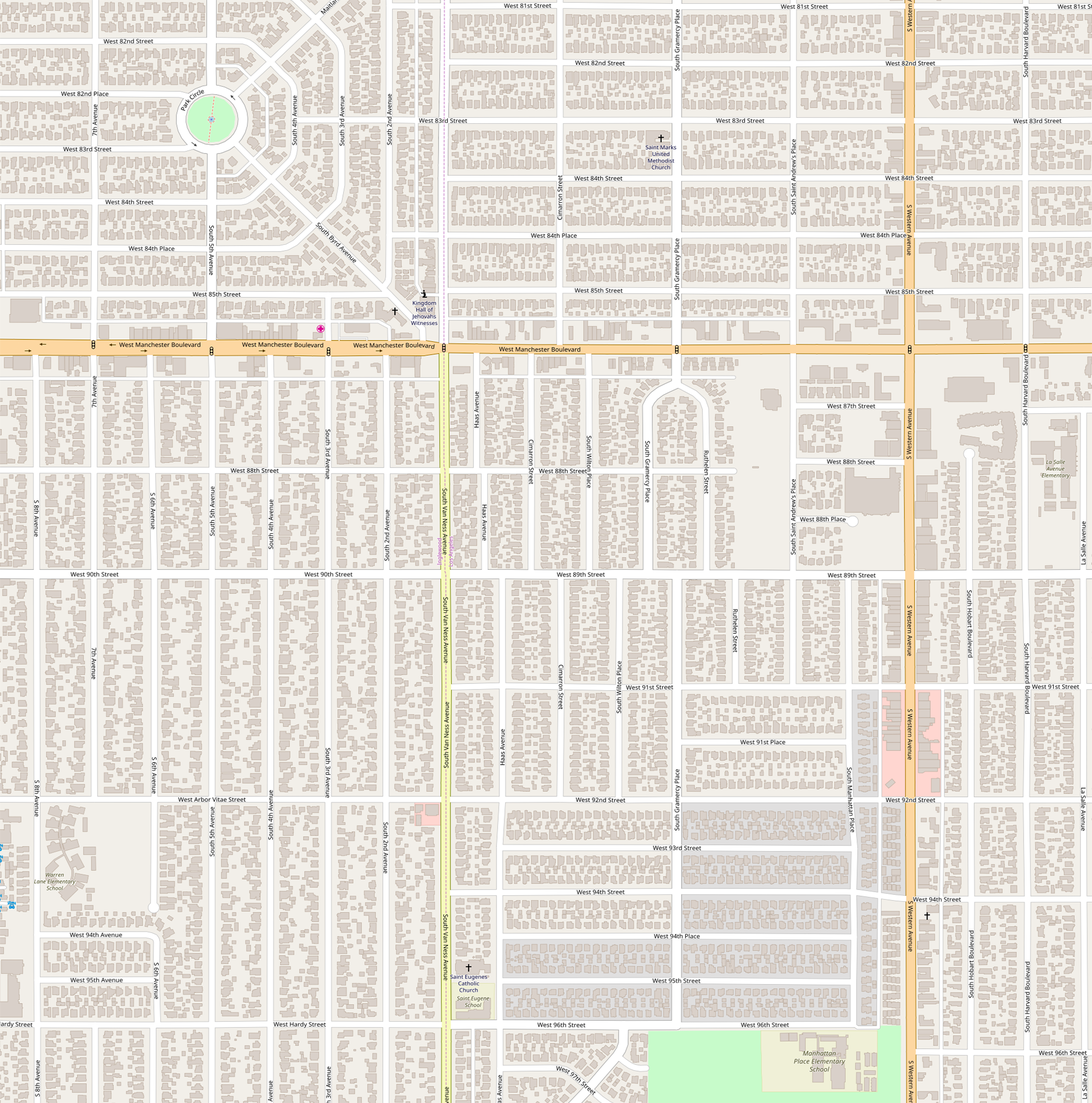
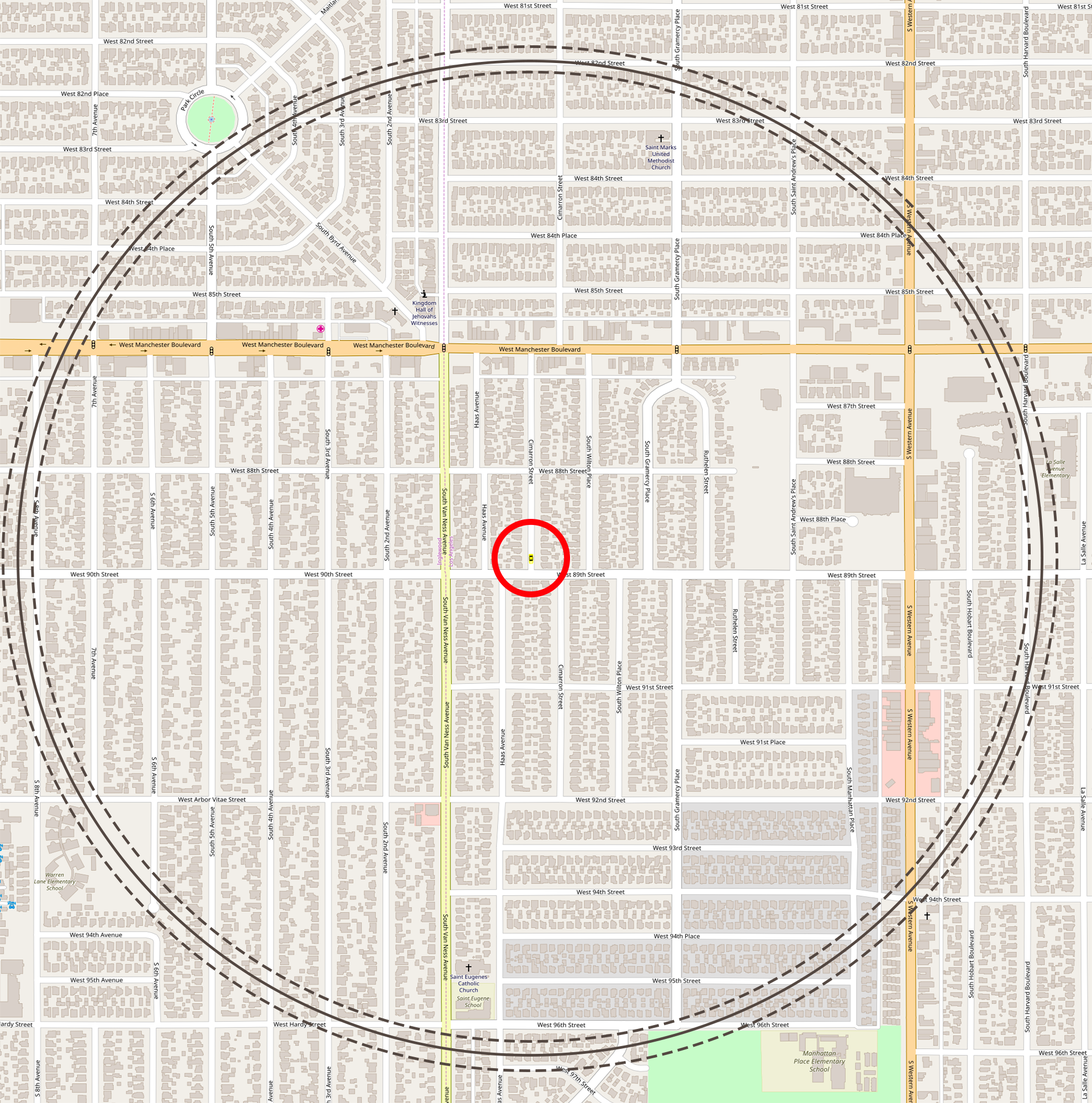
fix scenarios definition

diff --git a/doc/thesis/chapters/simulazioni.tex b/doc/thesis/chapters/simulazioni.tex
@@ -21,7 +21,11 @@ di un ambiente conosciuto;
 per questo motivo, la configurazione è la stessa presentata nel documento originale \cite{Barichello2017propagazione}, a cui sono stati aggiunti gli edifici.
 Lo scenario è una città fittizia con strade a griglia in stile Manhattan di lunghezza $4000$ metri e distanti l'una dall'altra $300$ metri.
 I veicoli sono disposti a $12$ metri di distanza per un totale di $8064$.
-Seguendo l'idea originale, è stata definita anche un circonferenza di raggio pari a $1000\pm12$ metri, utilizzata per definire alcune metriche che verranno descritte in seguito.
+Il veicolo dal quale ha inizio la fase di inoltro (generazione del primo messaggio di Alert) è posizionato
+al centro della griglia, in modo da avere una propagazione teoricamente uniforme;
+per facilità verrà chiamato veicolo \textit{zero}.
+Seguendo l'idea originale, è stata definita anche un circonferenza di raggio pari a $1000\pm12$ metri, utilizzata per definire alcune metriche che verranno descritte in seguito;
+la circonferenza ha centro in corrispondenza del veicolo zero.
 Il raggio trasmissivo effettivo assume due valori possibili: $300$ metri o $500$ metri;
 il tutto è riassunto in Tabella~\ref{tab:parametri-simulazioni-barichello}.
 
@@ -37,13 +41,15 @@ Così facendo, risultano $169$ edifici di $295$x$295$ metri (i muri sono distanz
 	\centering
 	\begin{tabular}{| m{.4\linewidth} | p{.2\linewidth} |}
 		\toprule
-		Parametro											&			Valore [metri]			\\
+		Parametro															&			Valore 							\\
 		\thickerline
-		Lunghezza delle strade				&			$4000$							\\
-		Distanza fra le strade				&			$300$								\\
-		Distanza fra i veicoloi 			&			$12$ 								\\
-		Raggio trasmissivo effettivo	&			$300$ - $500$				\\
-		Numero di simulazioni					&			$50$								\\
+		Lunghezza delle strade [metri] 				&			$4000$							\\
+		Distanza fra le strade [metri]				&			$300$								\\
+		Distanza fra i veicoloi [metri] 			&			$12$ 								\\
+		Raggio trasmissivo effettivo [metri]	&			$300$ - $500$				\\
+		Circonferenza [metri]									&			$1000\pm12$					\\
+		Posizione del veicolo zero						&			centrale						\\
+		Numero di simulazioni									&			$50$								\\
 		\bottomrule
 	\end{tabular}
 	\caption{Configurazione dei parametri per le simulazioni.\label{tab:parametri-simulazioni-barichello}}
@@ -65,9 +71,9 @@ Così facendo, risultano $169$ edifici di $295$x$295$ metri (i muri sono distanz
 Le configurazioni precedenti avevano il difetto di essere poco veritiere, sia dal punto di vista della topologia stradale
 che sulla geometria degli edifici.
 In questo gruppo di simulazioni, invece, si è voluto valutare Fast Broadcast all'interno di uno scenario quanto più reale possibile.
-Sono state scelte due città, Padova (IT) e Los Angeles (California, USA), definite due aree nella zona centrale di circa $5$ kilometri quadrati (Figura~\ref{fig:scenari-la-pd-osm})
+Sono state scelte due città, Padova (IT) e Los Angeles (California, USA) (Figura~\ref{fig:scenari-la-pd-osm}), definite due aree nella zona centrale di circa $5$ kilometri quadrati (Figura~\ref{fig:scenari-la-pd-osm})
 e, seguendo il procedimento descritto nella Sezione~\ref{sec:sumo}, si sono estratte le informazioni necessarie alla simulazione.
-I parametri risultanti sono elencati in Tabella~\ref{tab:parametri-simulazioni-pd-la}.
+Altre informazioni sulla configurazione sono elencati in Tabella~\ref{tab:parametri-simulazioni-pd-la}.
 
 La scelta è ricaduta su Los Angeles poiché ha una rete stradale a griglia in stile Manhattan, simile anche allo scenario precedente,
 mentre Padova (sede anche dell'Università dove si è svolto questo lavoro) ha una toplogià più irregolare, con strade più strette ed edifici a ridosso di queste,
@@ -75,7 +81,7 @@ zone pedonali e ZTL.
 %
 \begin{table}[htbp]
 	\centering
-	  \begin{tabular}{| m{.35\linewidth} | p{.01\linewidth} | p{.04\linewidth} | p{.15\linewidth} | p{.15\linewidth} |}
+	  \begin{tabular}{| L{.35\linewidth} | C{.01\linewidth} | C{.04\linewidth} | L{.15\linewidth} | L{.15\linewidth} |}
 			\toprule
 			\multicolumn{3}{|m{.3\linewidth}|}{\multirow{2}{*}{}}														&		\multicolumn{2}{c|}{Scenario}						\\ \cline{4-5}
 			\multicolumn{3}{|m{.3\linewidth}|}{}																						&		Padova				&			Los Angeles					\\
@@ -84,10 +90,12 @@ zone pedonali e ZTL.
 			\multicolumn{2}{|m{.25\linewidth}|}{}																		&		S	 	& 	$45,3981$				&			$33,9478$					\\ \hline
 			\multicolumn{2}{|l|}{\multirow{2}{*}{Longitudine}}											&		O	 	& 	$11,8654$				&			-$118,3260$				\\ \cline{3-5}
 			\multicolumn{2}{|l|}{}																									&		E	 	& 	$11,8923$				&			-$118,3055$				\\ \hline
-			\multicolumn{3}{|l|}{Area approssimativa (km$^2$)}															&		\multicolumn{2}{c|}{$5$}								\\ \hline
-			\multicolumn{3}{|l|}{Distanza fra veicoli (metri)}															&		\multicolumn{2}{c|}{$25$}								\\ \hline
+			\multicolumn{3}{|l|}{Area approssimativa [km$^2$]}															&		\multicolumn{2}{c|}{$5$}								\\ \hline
+			\multicolumn{3}{|l|}{Distanza fra veicoli [metri]}															&		\multicolumn{2}{c|}{$25$}								\\ \hline
 			\multicolumn{3}{|l|}{Numero di veicoli}																					&		$2224$					&					$1905$				\\ \hline
 			\multicolumn{3}{|l|}{Numero di edifici}																					&		$6322$					&					$8241$				\\ \hline
+			\multicolumn{3}{|l|}{Circonferenza [metri]}																			&		\multicolumn{2}{c|}{$1000\pm25$}				\\ \hline
+			\multicolumn{3}{|l|}{Posizione del veicolo zero}																&		\multicolumn{2}{c|}{centrale}						\\ \hline
 			\multicolumn{3}{|l|}{Numero di simulazioni}																			&		\multicolumn{2}{c|}{$50$}								\\
 			\bottomrule
 	  \end{tabular}
@@ -99,5 +107,21 @@ zone pedonali e ZTL.
 		\includegraphics[width=.49\textwidth]{osm_web-pd-2x2.png}
 		\hfill
 		\includegraphics[width=.49\textwidth]{osm_web-la-2x2.png}
-\caption{Una vista delle aree selezionate per le simulazioni; a sinistra la città di Padova e a destra Los Angeles (fonte: OSM).\label{fig:scenari-la-pd-osm}}
+\caption{Una vista delle aree selezionate per le simulazioni; a sinistra la città di Padova e a destra Los Angeles (fonte: OSM).
+Il cerchio rosso evidenzia la posizione del nodo di partenza mentre i tre rimanenti rappresentano il perimetro della circonferenza
+e i due intervalli di confidenza.\label{fig:scenari-la-pd-osm}}
+\end{figure}
+%
+Anche in questo gruppo di simulazioni sono state utilizzate le medesime metriche del caso precendente,
+fatta eccezione per il numero di salti che ora sono per raggiungere la circonferenza, non il bordo dello scenario.
+Questo perché nella configurazione a griglia lungo il perimetro esterno erano sicuramente posizionati dei veicoli,
+mentre ora il limite ``quadratico'' dell'area è ideale (non tutte le strade finisco esattamente sul bordo della mappa).
+%
+\subsection{Padova}\label{sec:configurazione-griglia-risultati}
+\begin{figure}[htbp]
+	\centering
+		\includegraphics[width=.49\textwidth]{osm_web-pd-2x2.png}
+		\hfill
+		\includegraphics[width=.49\textwidth]{osm_web-la-2x2.png}
+\caption{.\label{fig:risultati-padova-copertura-tot}}
 \end{figure}
